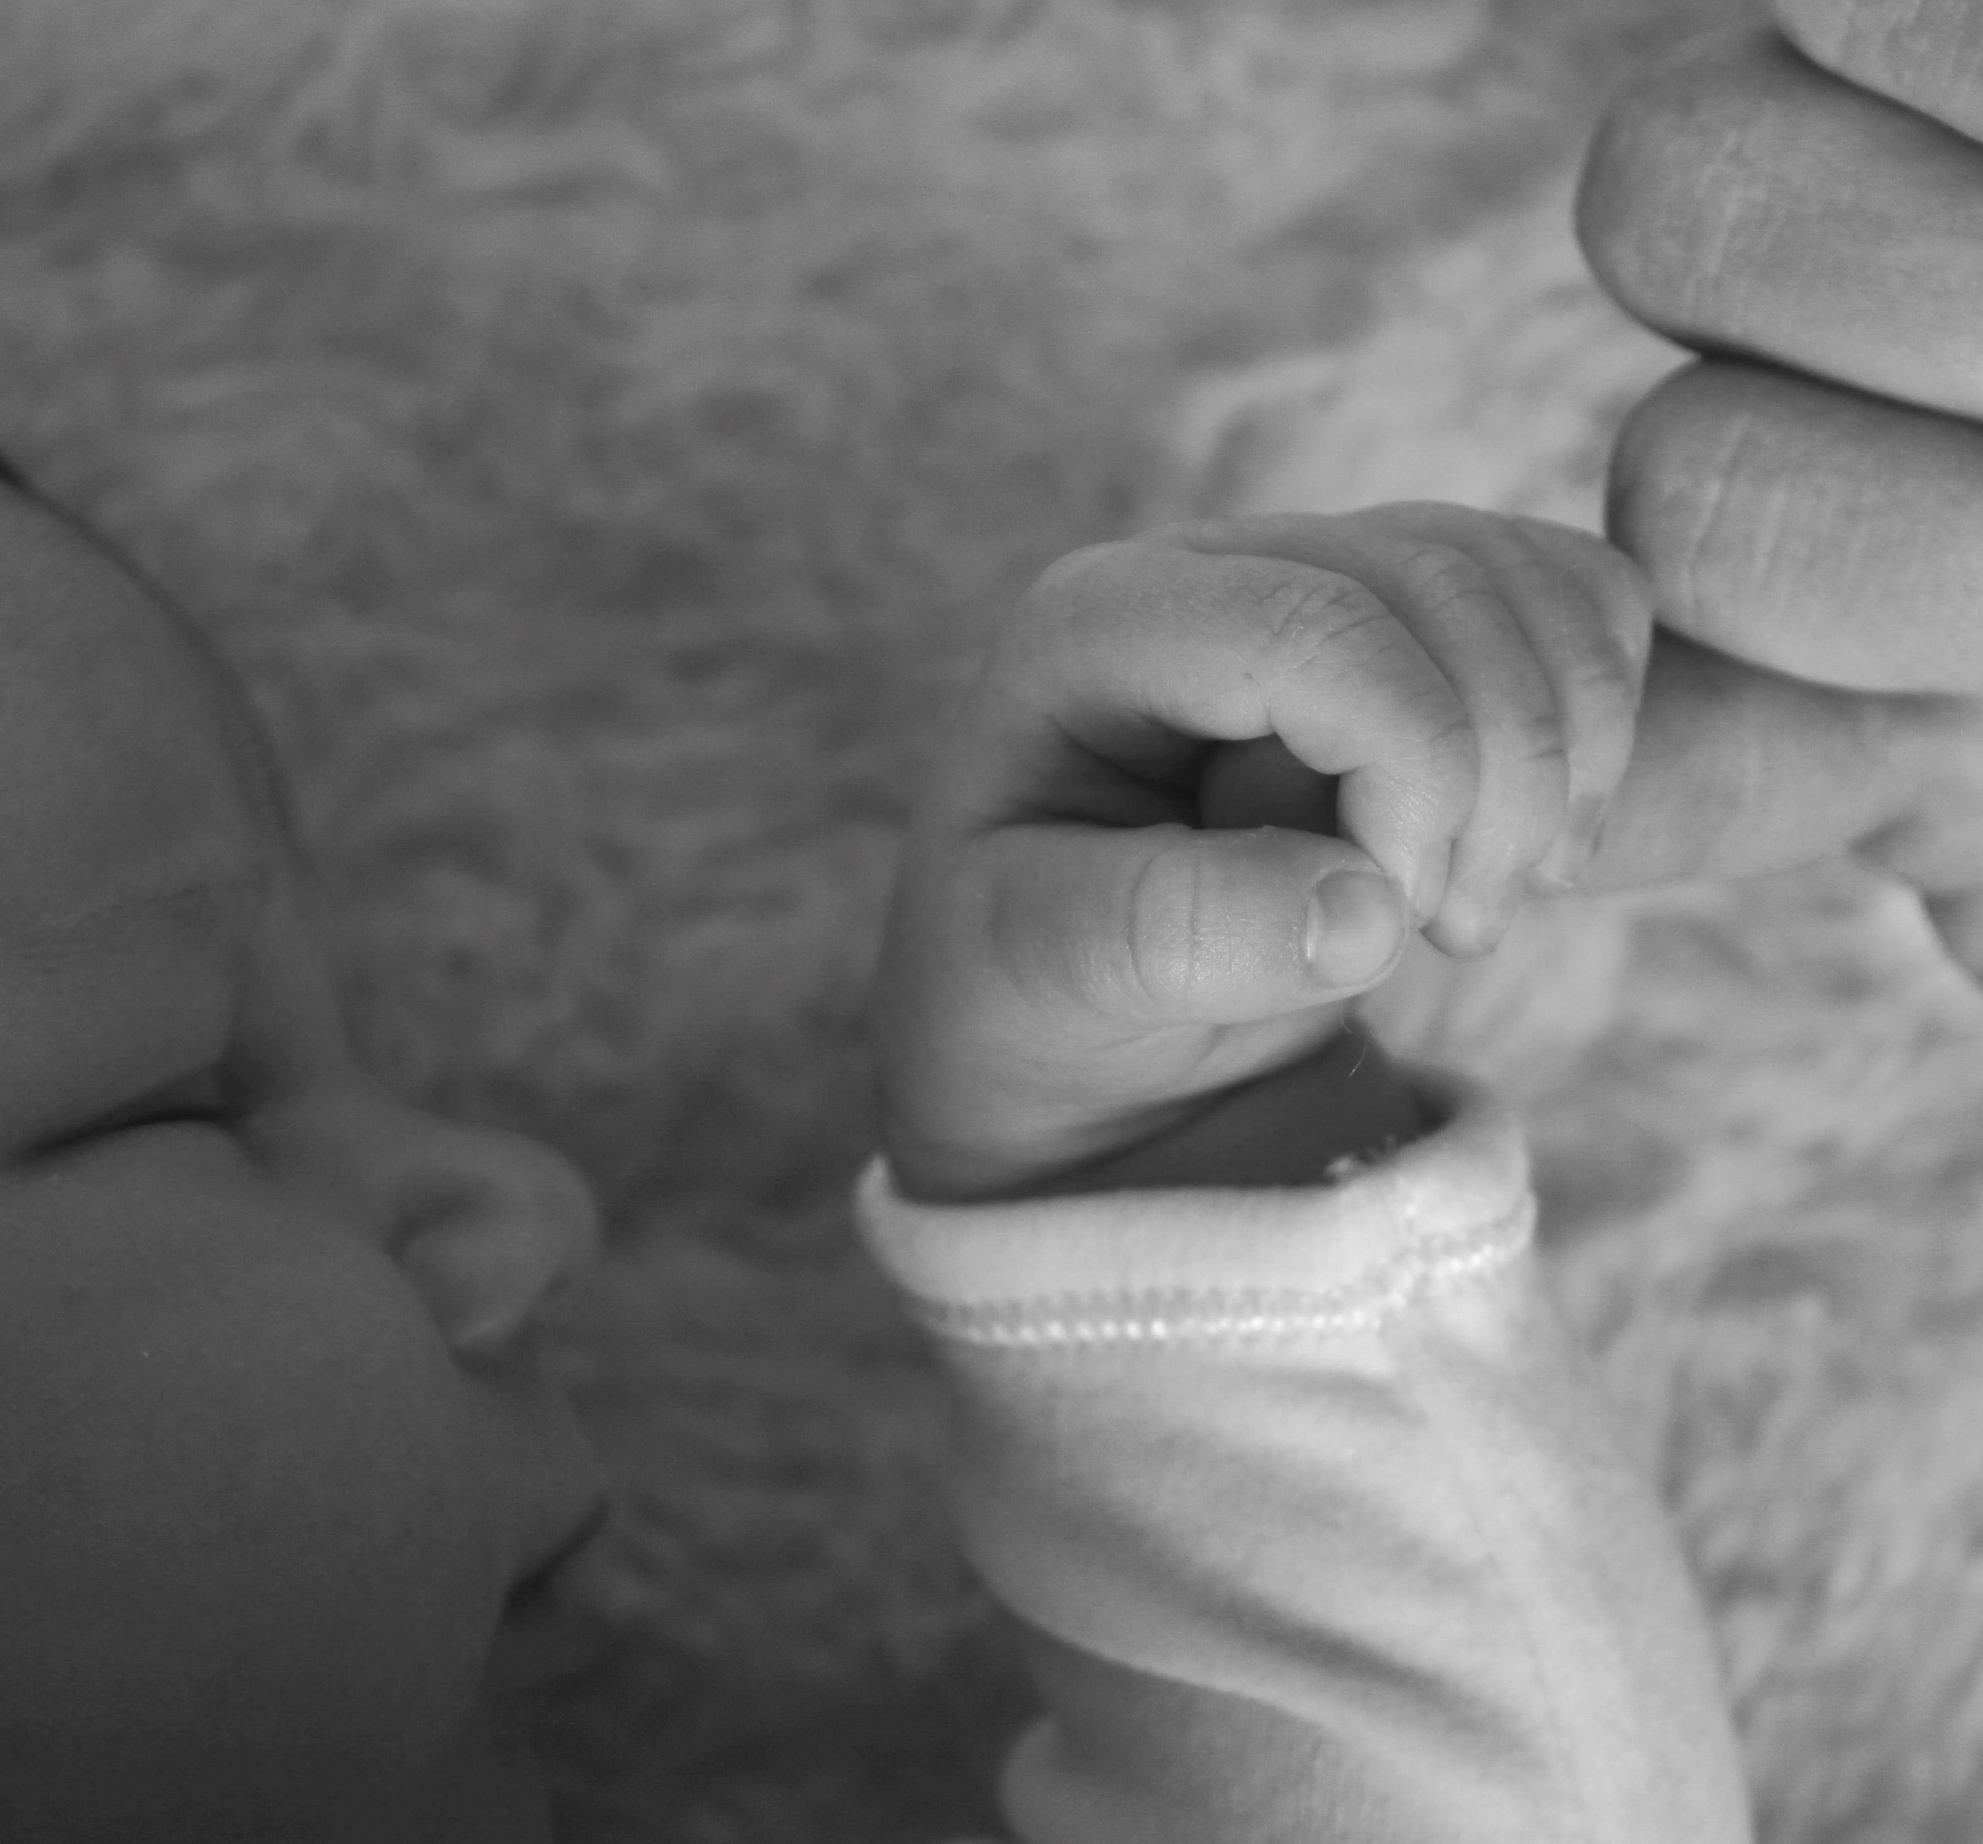
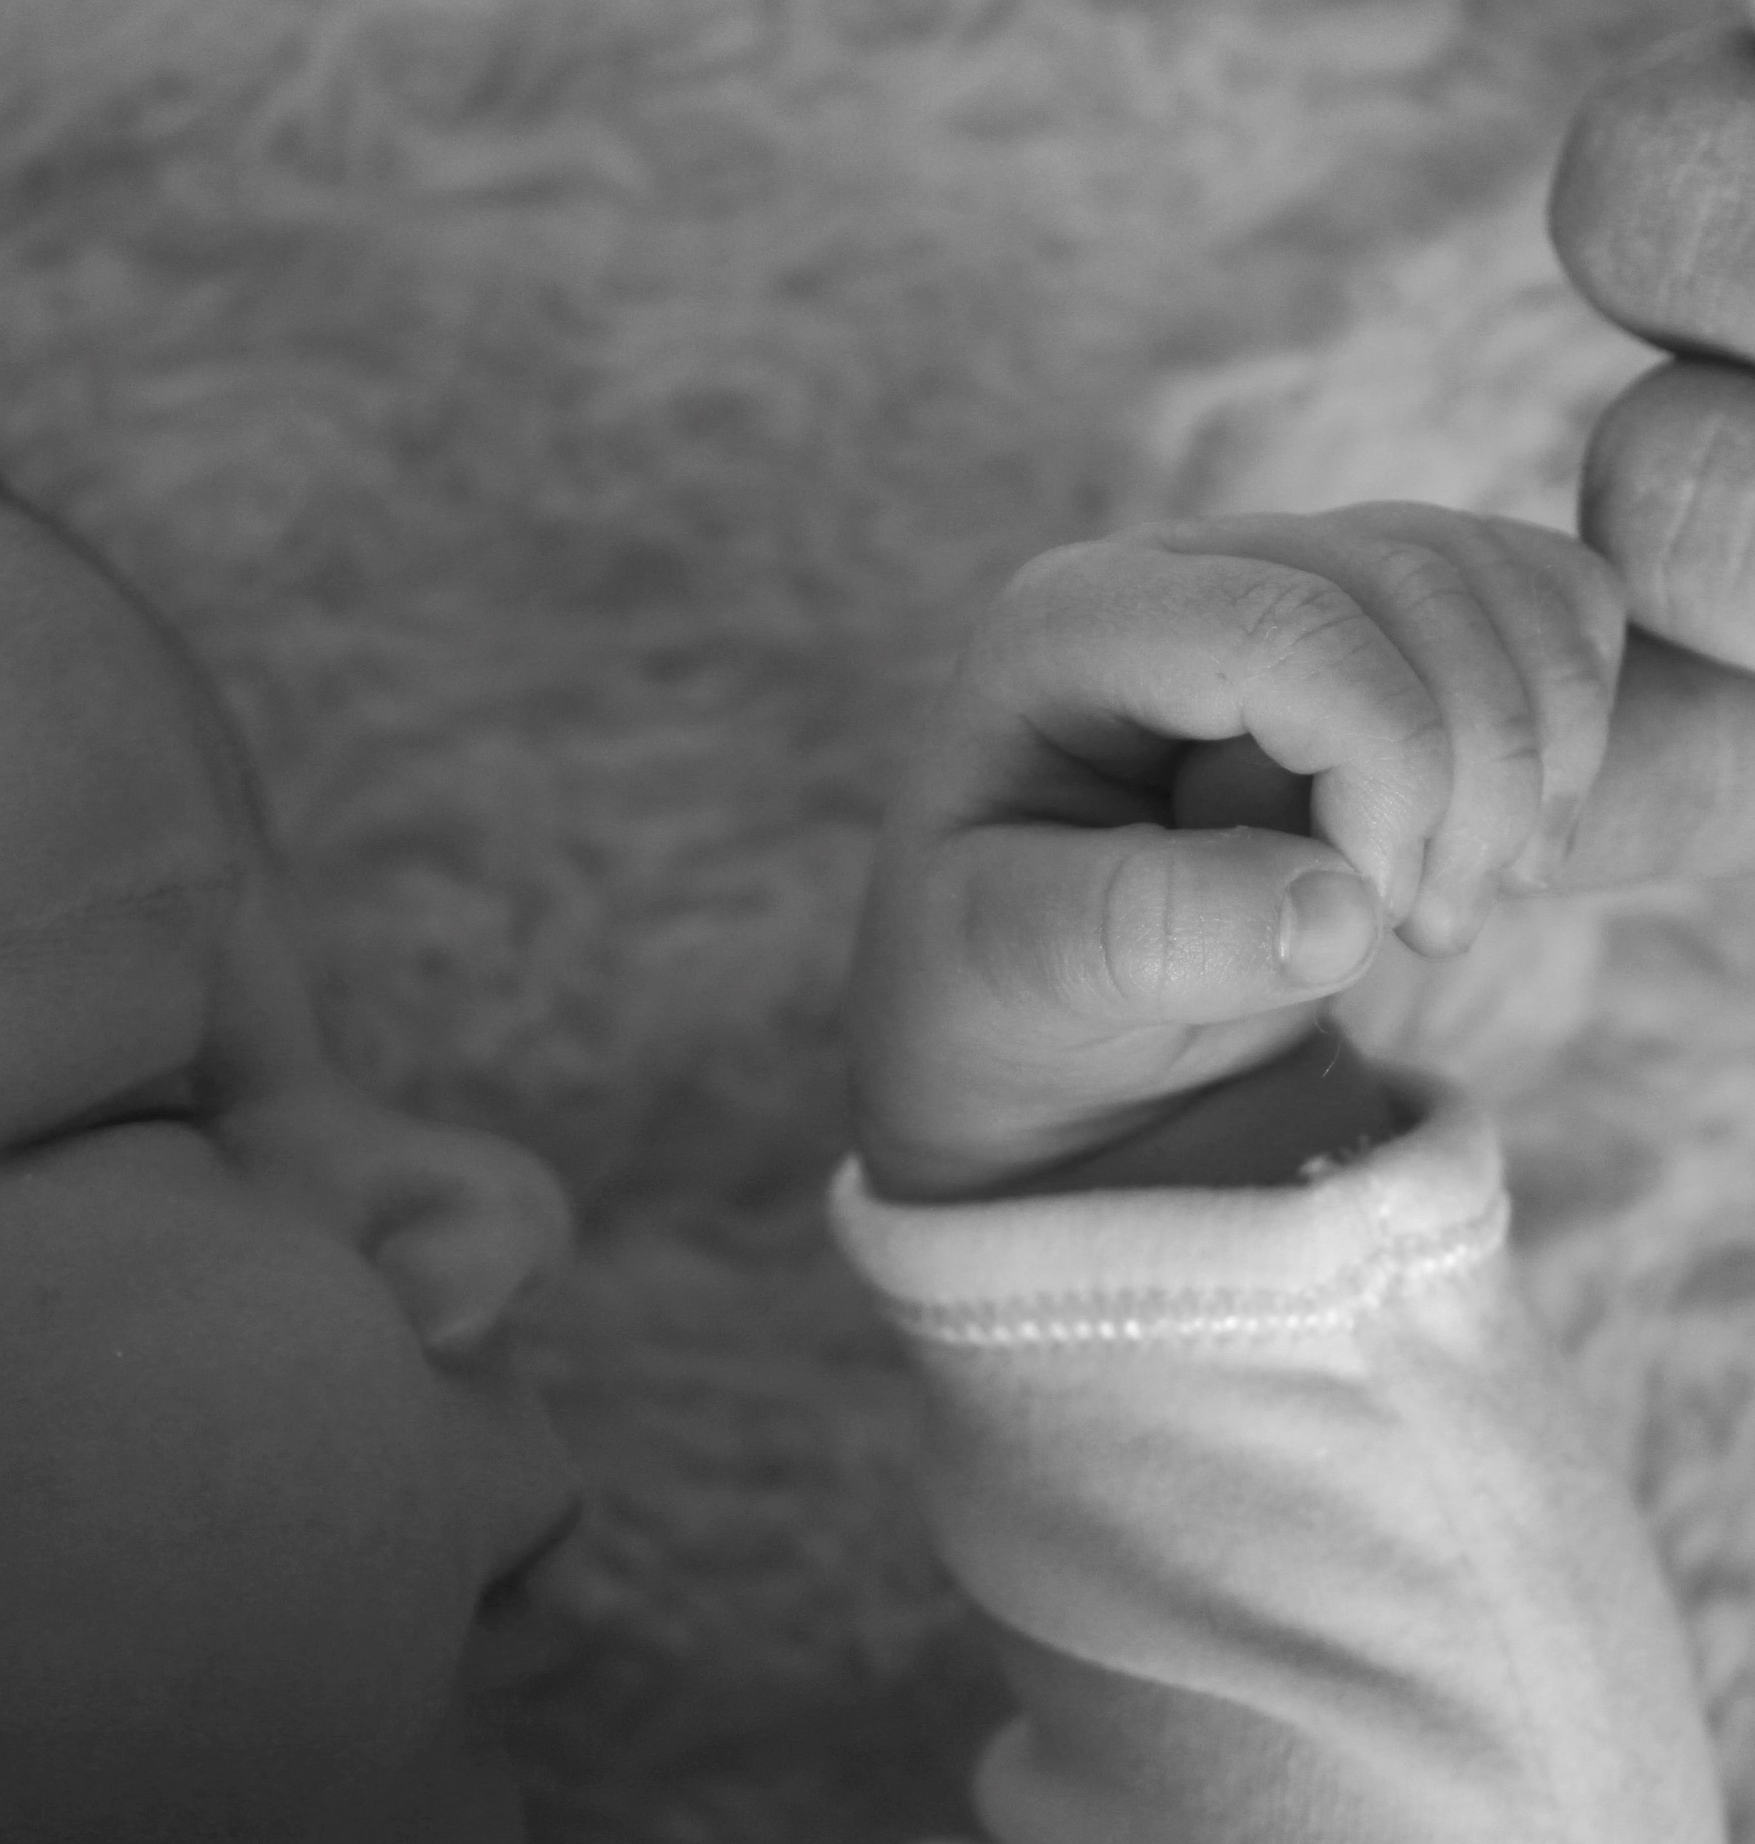
a

diff --git a/info.html b/info.html
@@ -113,7 +113,7 @@
                     </div>
                 </div>
                 <div class="row justify-content-center no-gutters">
-                    <div class="col-lg-5"><img class="img-fluid" src="assets/img/BabyPic6.jpg" alt="" /></div>
+                    <div class="col-lg-5"><img class="img-fluid" src="assets/img/BabyTall4.jpg" alt="" /></div>
                     <div class="col-lg-7">
                         <div class="bg-black text-center h-100 project">
                             <div class="d-flex h-100">
@@ -132,7 +132,7 @@
                     </div>
                 </div>
                 <div class="row justify-content-center no-gutters">
-                    <div class="col-lg-5"><img class="img-fluid" src="assets/img/BabyPic5.jpg" alt="" /></div>
+                    <div class="col-lg-5"><img class="img-fluid" src="assets/img/BabyTall3.jpg" alt="" /></div>
                     <div class="col-lg-7 order-lg-first">
                         <div class="bg-black text-center h-100 project">
                             <div class="d-flex h-100">
